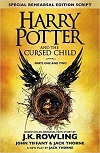
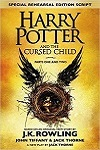
Redimencionar alturas das imagens

diff --git a/styles.css b/styles.css
@@ -65,6 +65,10 @@ footer > img:hover{
     height: 9%;
 }
 
+footer > img{
+    border-radius: 0.25cm;
+}
+
 
 /*Formatacao de menu*/
 
